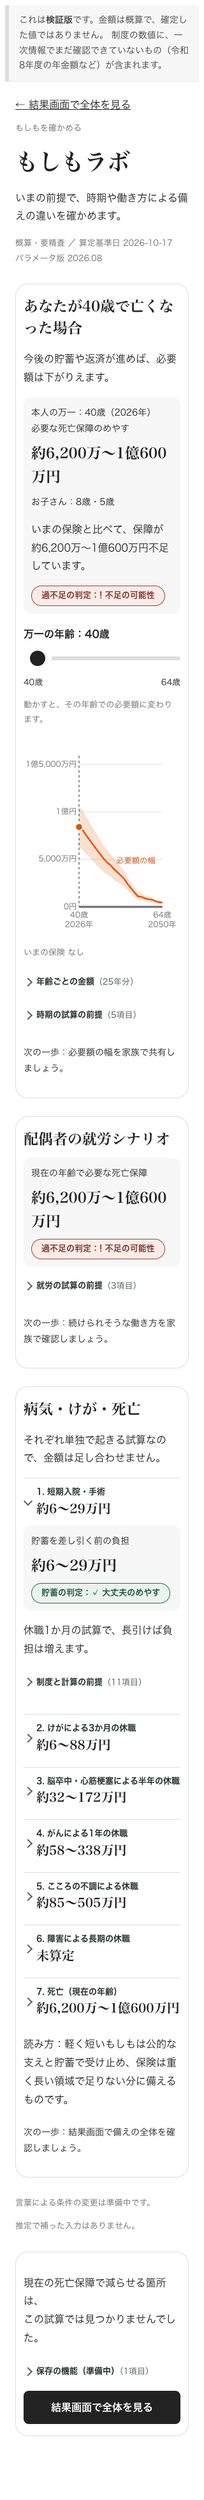
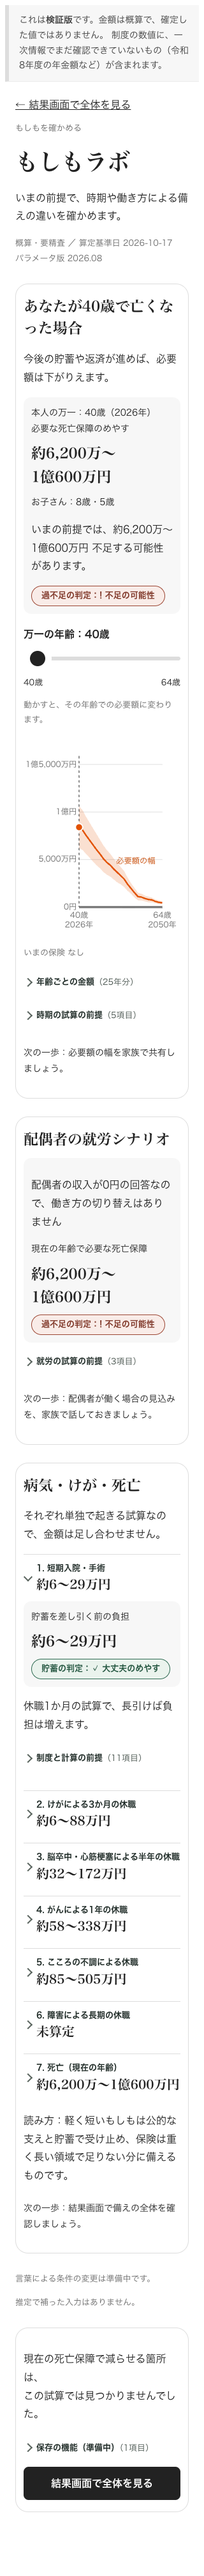
fix: もしもラボの UX レビュー2回目の3件を直す
配偶者収入0円の世帯に切り替えが無い理由と合う次の一歩、時期カードの差を「可能性があります」の強さに、
金額レンジは「〜」の後でだけ折り返し、判定バッジは語の途中で折り返さない。
共通 Fold の count に ReactNode を許す（ラボの金額レンジを渡すため。型は1つのまま）。
視覚DoD(a)：代表3世帯とも最大 691px。

実装: Codex（Fold の共通化と句点は Claude Code）

diff --git a/app/lab/Lab.tsx b/app/lab/Lab.tsx
@@ -24,16 +24,33 @@ const SAVINGS_LABEL = {
   shortage: "! 備え不足の可能性",
   pending: "… 未算定",
 };
+function AmountRange({ low, high }: { low: number; high: number }) {
+  const [start, end] = formatRange(low, high).split("〜");
+  return (
+    <span className={s.amountRange}>
+      <span className={s.amountEnd}>
+        {start}
+        {end !== undefined && "〜"}
+      </span>
+      {end !== undefined && (
+        <>
+          <wbr />
+          <span className={s.amountEnd}>{end}</span>
+        </>
+      )}
+    </span>
+  );
+}
 function Comparison({ point }: { point: LabPoint }) {
   return (
-    <strong className={`${badge.badge} ${badge[point.verdict]}`}>
+    <strong className={`${s.verdictBadge} ${badge.badge} ${badge[point.verdict]}`}>
       過不足の判定：{ICON[point.verdict]} {HERO_BADGE[point.verdict]}
     </strong>
   );
 }
 function SavingsBadge({ verdict }: { verdict: keyof typeof SAVINGS_LABEL }) {
   return (
-    <strong className={`${badge.badge} ${badge[verdict]}`}>
+    <strong className={`${s.verdictBadge} ${badge.badge} ${badge[verdict]}`}>
       貯蓄の判定：{SAVINGS_LABEL[verdict]}
     </strong>
   );
@@ -200,6 +217,7 @@ export function Lab({
   const [work, setWork] = useState(0);
   const [age, setAge] = useState(data.minAge);
   const scenario = data.work[work];
+  const spouseIncomeIsZero = data.work[0].now.annualIncome === 0;
   const point = scenario.points.find((p) => p.age === age);
   const difference = point ? labCoverageDifference(data.coverage, point.low, point.high) : null;
   const rising = labRisingIntervals(scenario.points);
@@ -229,7 +247,9 @@ export function Lab({
                 本人の万一：{point.age}歳（{point.year}年）
               </span>
               <span>必要な死亡保障のめやす</span>
-              <strong className={s.amount}>{formatRange(point.low, point.high)}</strong>
+              <strong className={s.amount}>
+                {<AmountRange low={point.low} high={point.high} />}
+              </strong>
               <span>
                 {point.children.length
                   ? `お子さん：${point.children.map((a) => `${a}歳`).join("・")}`
@@ -237,11 +257,19 @@ export function Lab({
               </span>
               {difference && (
                 <p>
-                  {difference.verdict === "pending"
-                    ? "いまの保険が不明のため、差は未算定です。"
-                    : difference.verdict === "uncertain"
-                      ? "いまの保険と比べて、必要額の幅の中です。"
-                      : `いまの保険と比べて、${difference.verdict === "shortage" ? "保障が" : "いまの保険が必要額を"}${formatRange(difference.low!, difference.high!)}${difference.verdict === "shortage" ? "不足しています" : "上回っています"}。`}
+                  {difference.verdict === "pending" ? (
+                    "いまの保険が不明のため、差は未算定です。"
+                  ) : difference.verdict === "uncertain" ? (
+                    "いまの前提では、いまの保険は必要額の幅の中に収まる可能性があります。"
+                  ) : (
+                    <>
+                      いまの前提では、
+                      <AmountRange low={difference.low!} high={difference.high!} />{" "}
+                      {difference.verdict === "shortage"
+                        ? "不足する可能性があります。"
+                        : "上回る可能性があります。"}
+                    </>
+                  )}
                 </p>
               )}
               <Comparison point={point} />
@@ -290,7 +318,7 @@ export function Lab({
                         {p.age}歳<br />
                         {p.year}年
                       </td>
-                      <td>{formatRange(p.low, p.high)}</td>
+                      <td>{<AmountRange low={p.low} high={p.high} />}</td>
                     </tr>
                   ))}
                 </tbody>
@@ -332,11 +360,12 @@ export function Lab({
       {data.hasSpouse && (
         <section className={s.card}>
           <h2>配偶者の就労シナリオ</h2>
-          {data.work[0].now.annualIncome === 0 ? (
+          {spouseIncomeIsZero ? (
             <div className={s.readout}>
+              <p>配偶者の収入が0円の回答なので、働き方の切り替えはありません。</p>
               <span>現在の年齢で必要な死亡保障</span>
               <strong className={s.amount}>
-                {formatRange(scenario.now.low, scenario.now.high)}
+                {<AmountRange low={scenario.now.low} high={scenario.now.high} />}
               </strong>
               <Comparison point={scenario.now} />
             </div>
@@ -361,13 +390,13 @@ export function Lab({
               <div className={s.readout} aria-live="polite">
                 <span>現在の年齢で必要な死亡保障</span>
                 <strong className={s.amount}>
-                  {formatRange(scenario.now.low, scenario.now.high)}
+                  {<AmountRange low={scenario.now.low} high={scenario.now.high} />}
                 </strong>
                 <Comparison point={scenario.now} />
               </div>
               <p>
                 いまの前提では、配偶者の年収を約{formatMan(scenario.now.annualIncome ?? 0)}
-                とすると、必要額は{formatRange(scenario.now.low, scenario.now.high)}
+                とすると、必要額は{<AmountRange low={scenario.now.low} high={scenario.now.high} />}
                 、過不足の判定は「{HERO_BADGE[scenario.now.verdict]}」です。
               </p>
             </>
@@ -387,7 +416,12 @@ export function Lab({
               </li>
             </ul>
           </Fold>
-          <p className={s.next}>次の一歩：続けられそうな働き方を家族で確認しましょう。</p>
+          <p className={s.next}>
+            次の一歩：
+            {spouseIncomeIsZero
+              ? "配偶者が働く場合の見込みを、家族で話しておきましょう。"
+              : "続けられそうな働き方を家族で確認しましょう。"}
+          </p>
         </section>
       )}
       <section className={s.card}>
@@ -398,13 +432,15 @@ export function Lab({
             <Fold
               key={item.id}
               label={`${i + 1}. ${SCENARIO_TITLE[item.id]}`}
-              count={formatRange(item.need.low, item.need.high)}
+              count={<AmountRange low={item.need.low} high={item.need.high} />}
               countClassName={s.scenarioAmount}
               open={i === 0}
             >
               <div className={s.readout}>
                 <span>貯蓄を差し引く前の負担</span>
-                <strong className={s.amount}>{formatRange(item.need.low, item.need.high)}</strong>
+                <strong className={s.amount}>
+                  {<AmountRange low={item.need.low} high={item.need.high} />}
+                </strong>
                 <SavingsBadge verdict={item.savingsVerdict} />
               </div>
               <p>
@@ -425,7 +461,7 @@ export function Lab({
                       : "この就業形態では傷病手当金を見込んでいません。"}
                   </li>
                   <li>
-                    貯蓄の回答帯{formatRange(data.savings.low, data.savings.high)}
+                    貯蓄の回答帯{<AmountRange low={data.savings.low} high={data.savings.high} />}
                     と負担の幅を比べています。休職が長引けば負担は増えます。
                     {item.id === "mental" &&
                       `傷病手当金の上限${duration}を超える生活資金は含みません。`}
@@ -454,13 +490,13 @@ export function Lab({
           </Fold>
           <Fold
             label="7. 死亡（現在の年齢）"
-            count={formatRange(scenario.now.low, scenario.now.high)}
+            count={<AmountRange low={scenario.now.low} high={scenario.now.high} />}
             countClassName={s.scenarioAmount}
           >
             <div className={s.readout}>
               <span>資産を差し引いた後の必要保障額</span>
               <strong className={s.amount}>
-                {formatRange(scenario.now.low, scenario.now.high)}
+                {<AmountRange low={scenario.now.low} high={scenario.now.high} />}
               </strong>
               <Comparison point={scenario.now} />
             </div>

diff --git a/app/result/Fold.tsx b/app/result/Fold.tsx
@@ -24,8 +24,9 @@ export function Fold({
 }: {
   /** 見出し語。折り返してよい */
   label: string;
-  /** 件数。`（3通り）` のように括弧ごと渡す。**折り返さない** */
-  count?: string;
+  /** 件数。`（3通り）` のように括弧ごと渡す。**折り返さない**。
+   *  ラボは件数の代わりに金額レンジを渡す（「〜」の後でだけ折り返す部品を入れるため ReactNode も受ける） */
+  count?: ReactNode;
   countClassName?: string;
   children: ReactNode;
   /** 既定で開いておくか（参照材は閉じるのが既定） */

diff --git a/app/lab/page.module.css b/app/lab/page.module.css
@@ -42,3 +42,7 @@
 .sliderEnds { display: flex; justify-content: space-between; font-size: 13px; }
 .buttonIncome { display: block; font-size: 13px; }
 .scenarioAmount { display: block; font-family: var(--mk-font-display); font-size: 20px; font-weight: 600; color: var(--color-text); }
+
+.amountRange { white-space: normal; overflow-wrap: normal; word-break: normal; }
+.amountEnd { white-space: nowrap; }
+.page .verdictBadge { white-space: nowrap; }

diff --git a/tasks/current.md b/tasks/current.md
@@ -38,6 +38,8 @@
 
 ## feat/moshimo-lab（作業ツリーで引き渡し・2026-10-17）
 
+- 小修正（2026-10-17・Codex）：配偶者回答収入0円の切替なし理由と次の一歩、時期カードの差を可能性表現へ統一、全金額レンジを「〜」直後のみ改行・過不足／貯蓄バッジを分割不可に修正（app/lab 内のみ）。tsc --noEmit・biome lint app/lab・vitest src/calc/lab.test.ts（23件）成功。計算・params・判定規則・スライダー下限は変更なし、lab.ts は型importのみ。実画面320px・独立レビューは未確認。commit・pushなし。
+
 - UX指摘修正（2026-10-17・Codex）：受け入れ条件はユーザー指定1〜12。シナリオ見出しにエンジンの金額レンジ／未算定、節末の読み方、配偶者収入ゼロ時の死亡必要額を追加。次の一歩は各節1文に統一し、現保障ゼロ／不明／ありで時期カードの案内を分岐。
 - 時期カード：選択年齢の見出し、子の年齢、現保障との差額の幅／幅の中、スライダー両端と操作説明を追加。差額・上昇区間は lab.ts の純粋関数とテストで導出。上昇区間の年齢を図直下に注記。モバイルSVGにも該当時だけ緑の差の注記、保障なしは図外、y軸ゼロは0円。
 - 就労カード：ボタンにエンジン入力の年収、本文に選択段の必要額と過不足の判定をバインド。/result の HERO_BADGE と既存バッジCSS・トークンを流用し、アイコンを併記（圏内は琥珀、灰色は保留）。共有Foldのシェブロンを直下summaryに限定。
